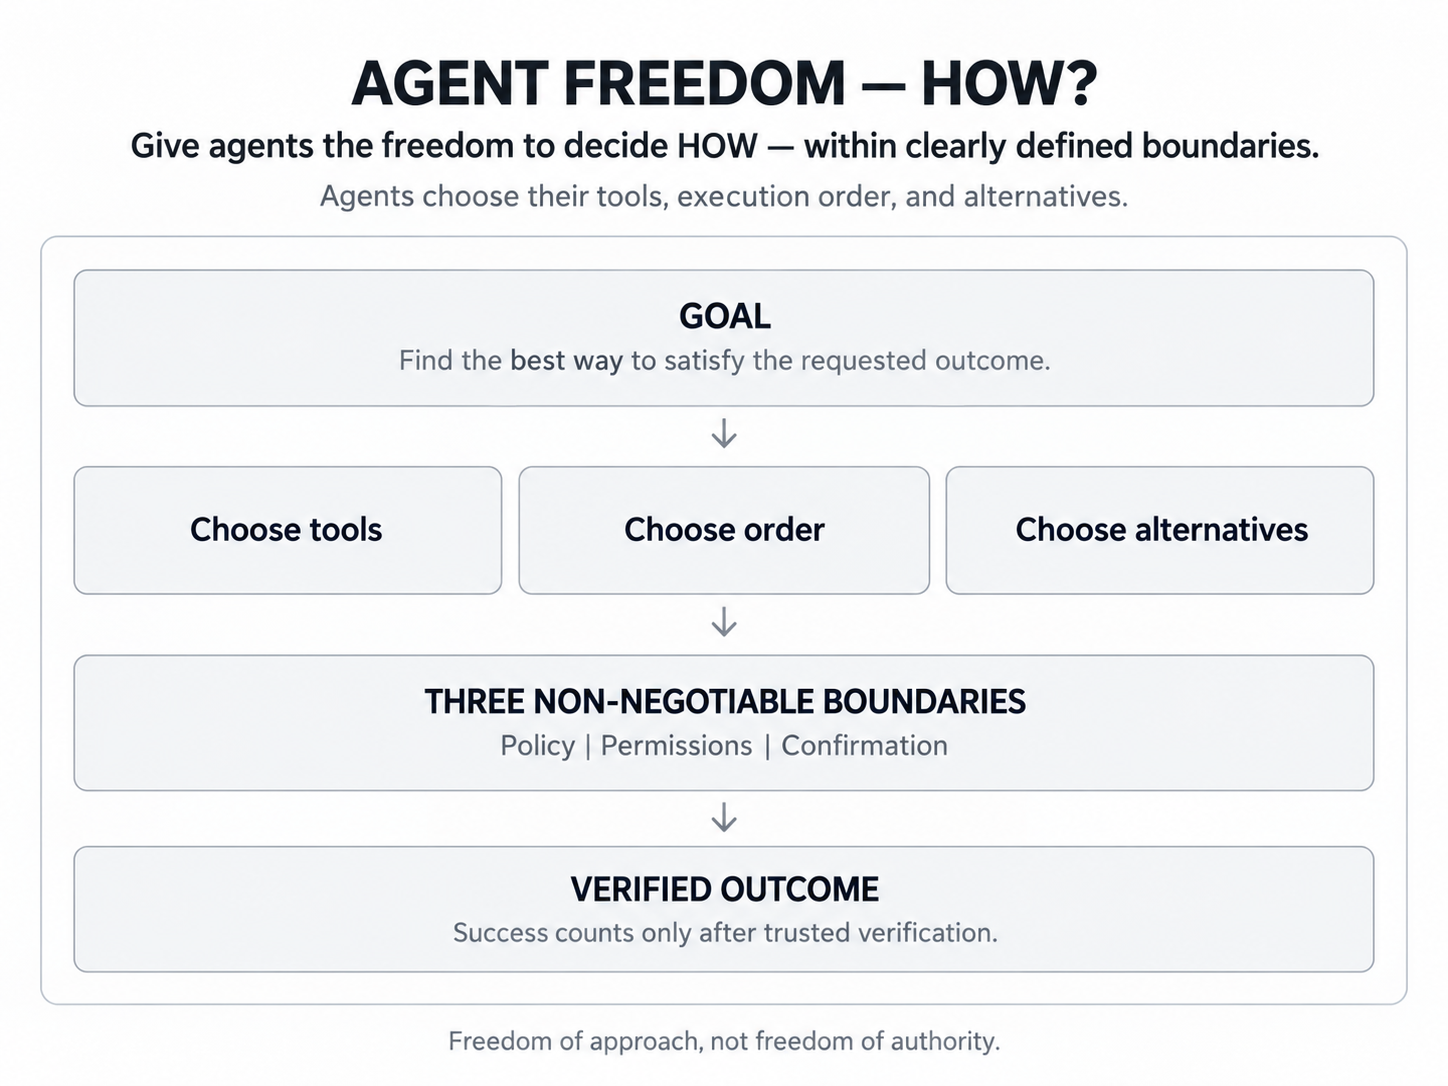
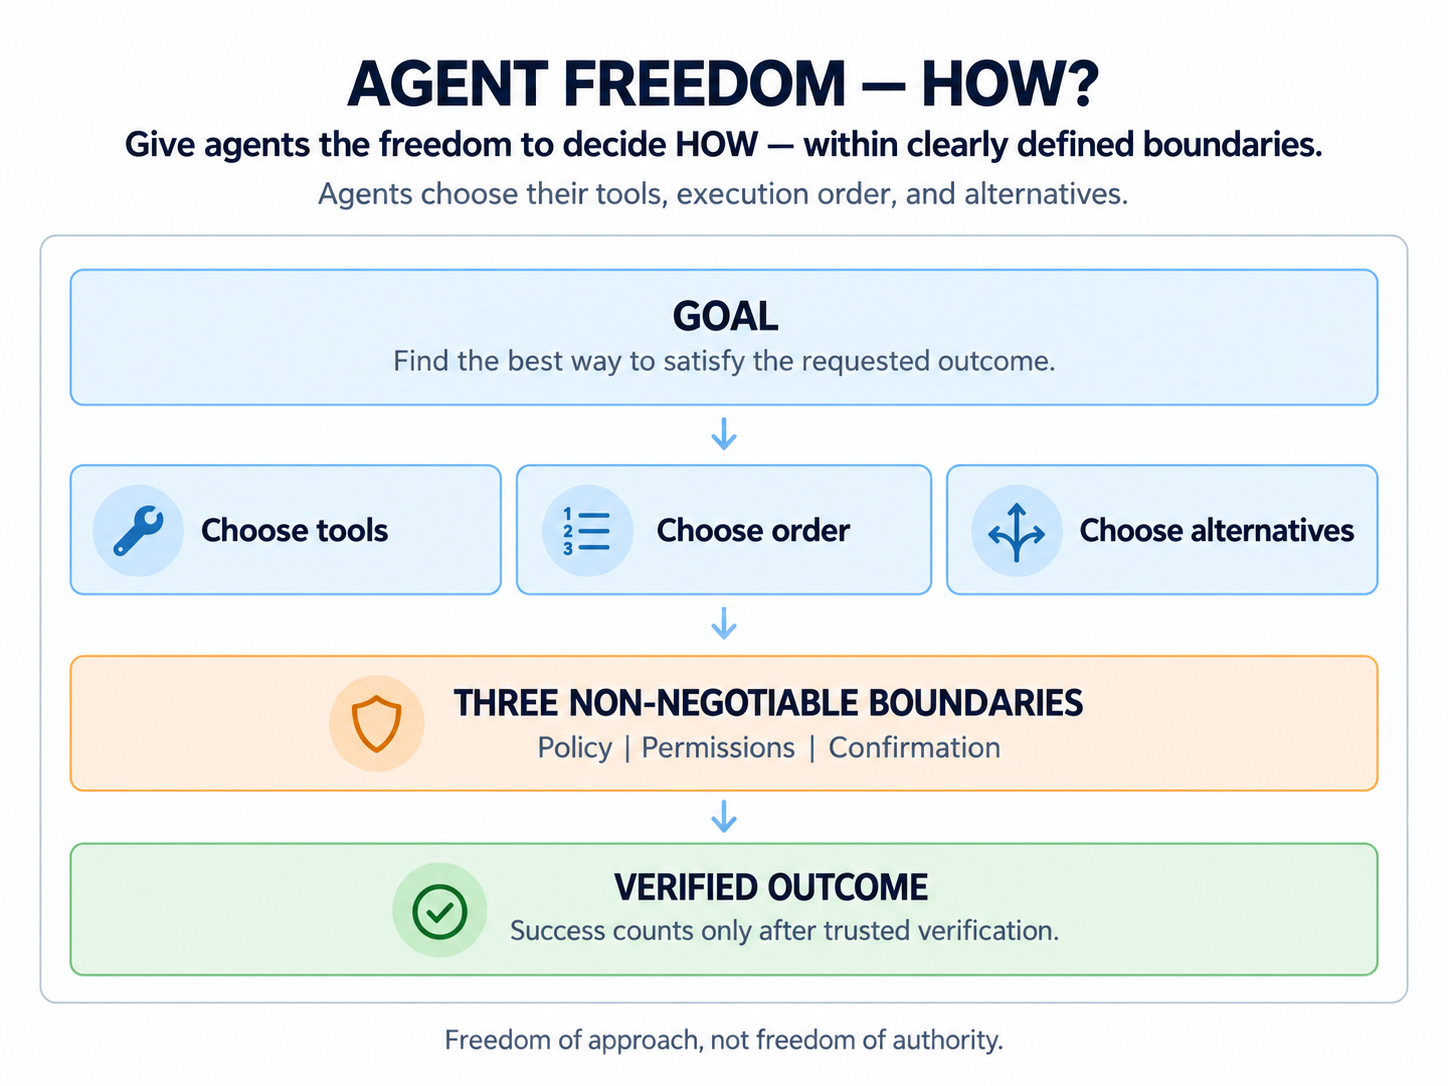
Refresh BAOSA diagrams and fix README metrics presentation

diff --git a/README.md b/README.md
@@ -33,18 +33,7 @@ Understand the **business requirements**. Define the **business outcome** and **
 
 ## Two Business Metrics That Matter
 
-**1. Did we succeed? — Verified Success Rate**
-
-**Verified Success Rate = (Verified Successful Outcomes ÷ Total Evaluated Requests) × 100%**
-
-**2. At what cost? — Cost per Verified Success**
-
-**Cost per Verified Success = Total System Cost ÷ Verified Successful Outcomes**
-
-**Example — 10 Employee Leave Assistant requests (illustrative)**
-
-- **Did we succeed? 80% Verified Success Rate** — 8 verified successes ÷ 10 requests × 100
-- **At what cost? $0.50 per Verified Success** — $4 total system cost ÷ 8 verified successes
+![BAOSA measurement: business metrics first, engineering diagnostics second, optimize cost and performance without compromising outcomes](docs/images/business-engineering-metrics.png)
 
 *Example numbers only—not measured BAOSA or Nebius results. Each success must satisfy its predefined business criteria and independent verification.*
 
@@ -60,8 +49,6 @@ Understand the **business requirements**. Define the **business outcome** and **
 **BAOSA verifies what happened—not what the agent claimed.** [See both workflow and agent modes →](docs/DEMO.md)
 
 ## Measure WHAT. Optimize HOW.
-
-![BAOSA measurement: business metrics first, engineering diagnostics second, optimize cost and performance without compromising outcomes](docs/images/business-engineering-metrics.png)
 
 **Business metrics establish WHAT we achieved. Engineering metrics explain HOW to improve delivery.** The current demo focuses on verified business outcomes; engineering benchmarks are future work. [Measurement guide →](docs/BUSINESS-AND-ENGINEERING-METRICS.md)
 
